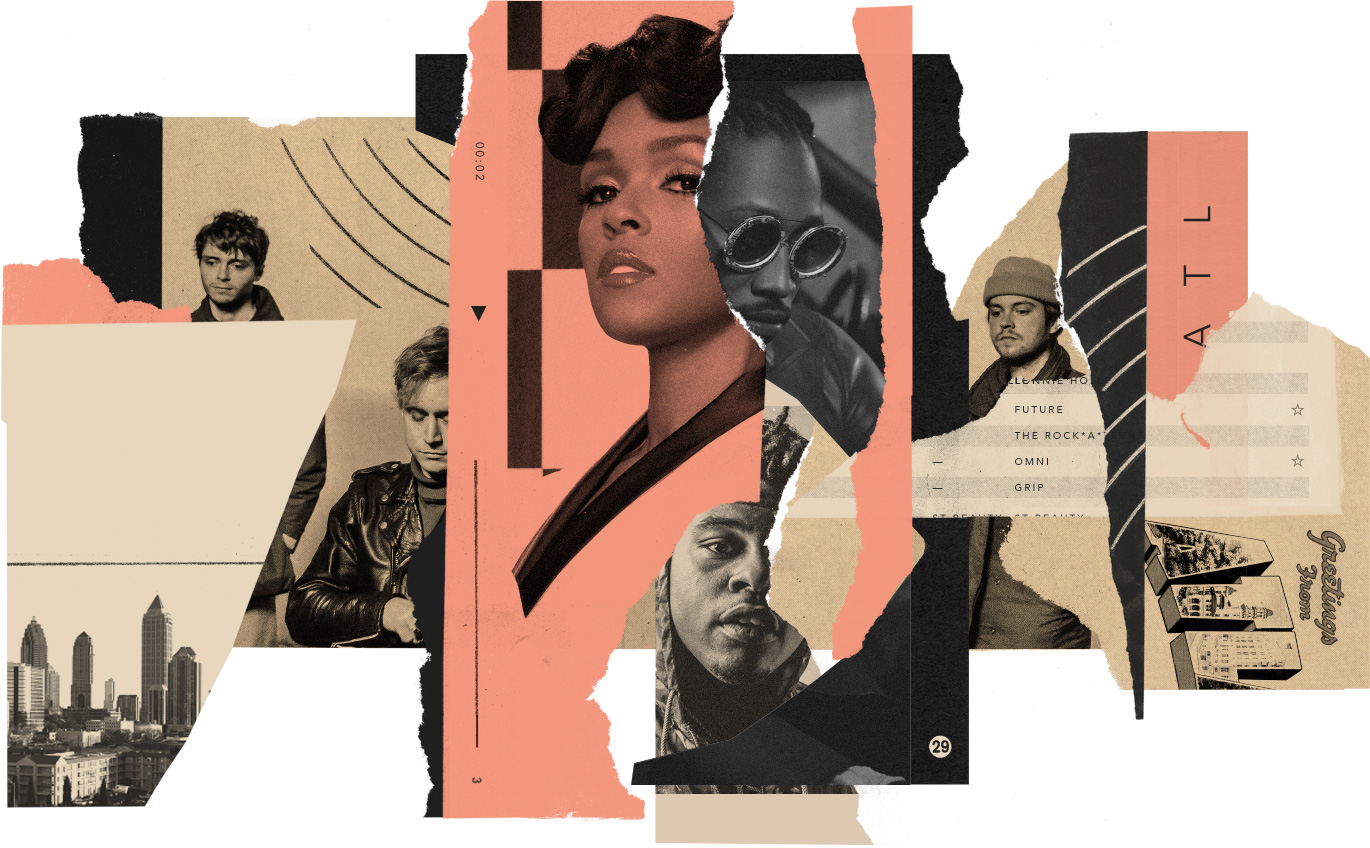
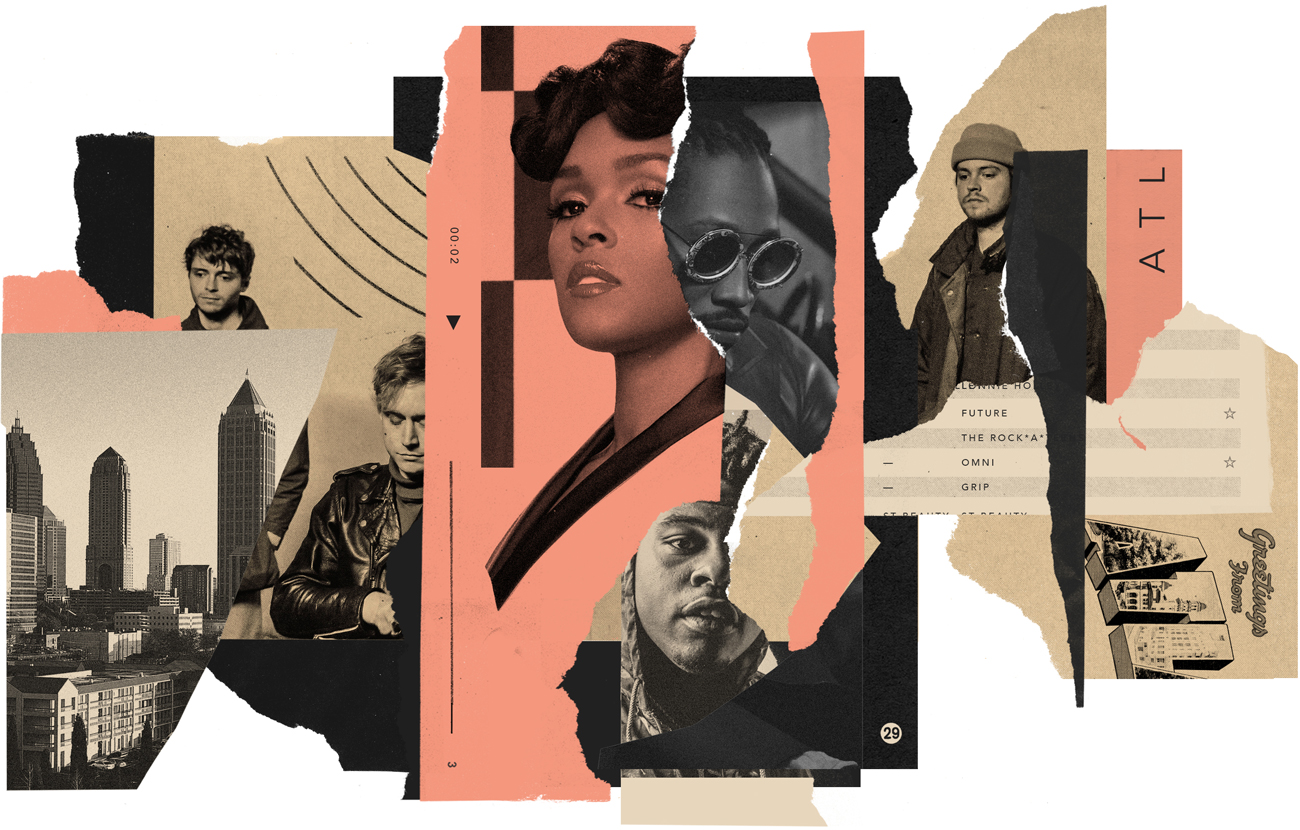
new header

diff --git a/src/sass/partials/_header.scss b/src/sass/partials/_header.scss
@@ -34,42 +34,42 @@
     }
 
     &--1 {
-        top: 2vw;
-        left: 17.5vw;
+        top: 3vw;
+        left: 19.5vw;
 
         @include mq(tablet) {
-            top: 20px;
-            left: 152px;
+            top: 30px;
+            left: 165px;
         }
 
         @include mq(desktop) {
-            top: 30px;
-            left: 190px;
+            top: 40px;
+            left: 210px;
         }
 
         @include mq(leftCol) {
-            top: 21px;
-            left: 58px;
+            top: 45px;
+            left: 78px;
         }
     }
 
     &--2 {
-        top: 15vw;
-        right: 13vw;
+        top: 18vw;
+        right: 12vw;
 
         @include mq(tablet) {
-            top: 118px;
-            right: 37px;
+            top: 138px;
+            right: 20px;
         }
 
         @include mq(desktop) {
-            top: 156px;
-            right: -178px;
+            top: 186px;
+            right: -195px;
         }
 
         @include mq(leftCol) {
-            top: 183px;
-            right: -171px;
+            top: 213px;
+            right: -191px;
         }
     }
 
@@ -94,34 +94,44 @@
     }
 
     &--4 {
-        top: 45vw;
-        right: 21vw;
+        top: 47vw;
+        right: 17vw;
 
         @include mq(tablet) {
-            top: 353px;
-            right: 110px;
+            top: 375px;
+            right: 90px;
         }
 
         @include mq(desktop) {
-            top: 470px;
-            right: -91px;
+            top: 490px;
+            right: -120px;
         }
 
         @include mq(leftCol) {
-            top: 547px;
-            right: -73px;
+            top: 570px;
+            right: -130px;
         }
     }
 }
 
-.uit-header__standfirst {
-    padding: 3px 0 0;
-    font-family: 'Guardian Egyptian Web';
-    font-weight: 300;
-    font-size: 18px;
-    line-height: 1.2;
+.uit-header__credit {
+    font-family: 'Guardian Sans Web';
+    font-size: 12px;
+    color: $c-grey;
 
-    @include mq(tablet) {
-        font-size: 24px;
+    @include mq($until: tablet) {
+        position: absolute;
+        left: 104px;
+        padding-left: 4px;
+        border-left: 1px solid $c-light-grey;
+        font-size: 12px;
+        line-height: 1.2;
+        max-width: 100px;
+        padding-top: 1px;
     }
+}
+
+.uit-header__triangle {
+    fill: $c-dark-brown;
+    height: .7em;
 }

diff --git a/src/templates/partials/header.html b/src/templates/partials/header.html
@@ -10,6 +10,12 @@
         </div>
         <img class='uit-header__image' src='{{ path }}/assets/header.jpg' />
         <div class='uit-content'>
+            <div class='uit-header__credit'>
+                <svg width="11" height="10" viewBox="0 0 11 10" class="uit-header__triangle">
+                    <path fill-rule="evenodd" d="M5.5 0L11 10H0z"></path>
+                </svg>
+                Illustration by Mike McQuade
+            </div>
             {{> partials/share }}
         </div>
     </div>
